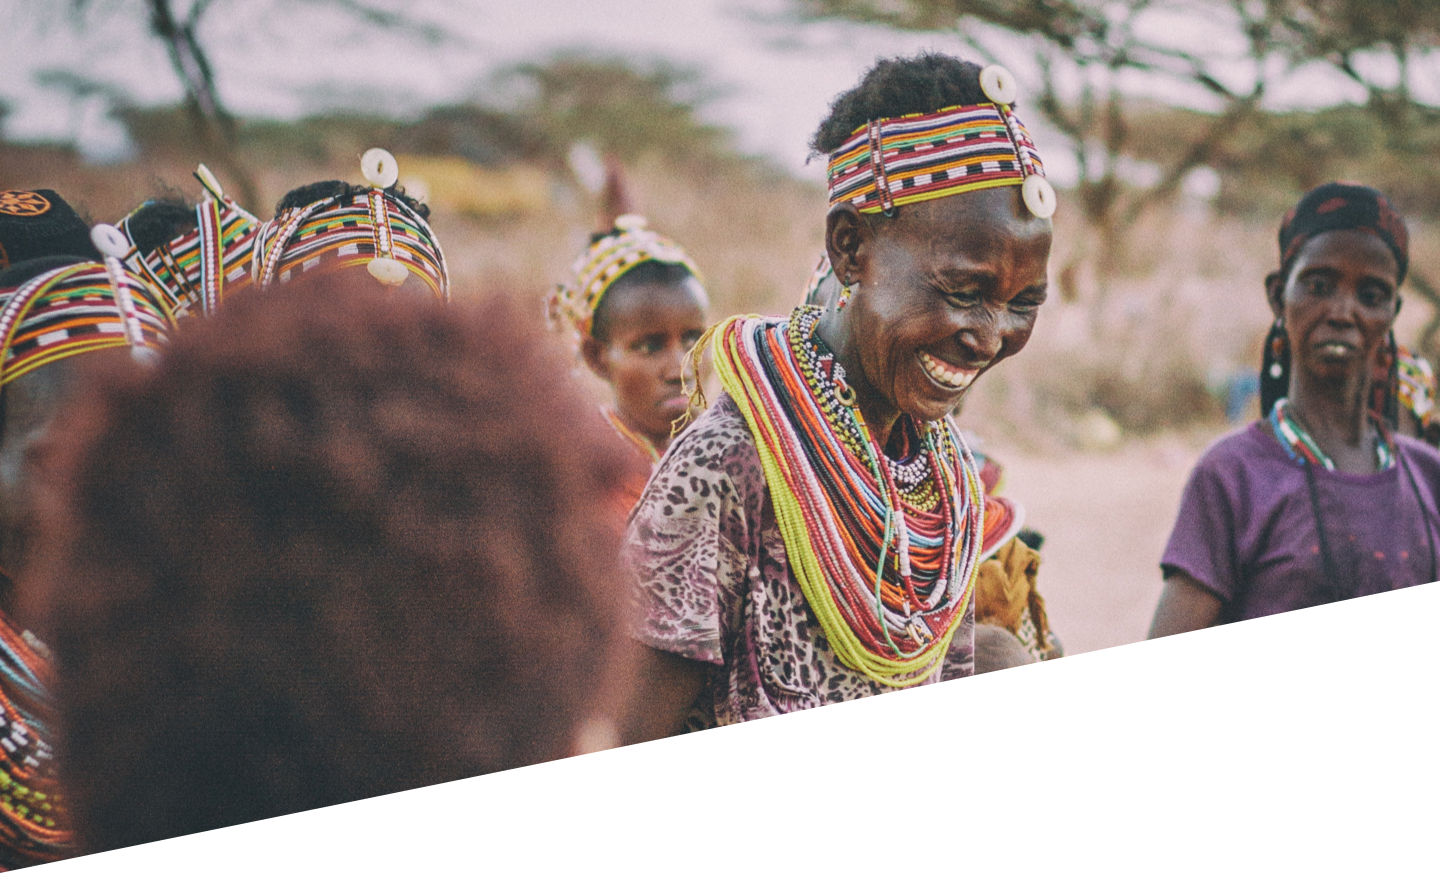
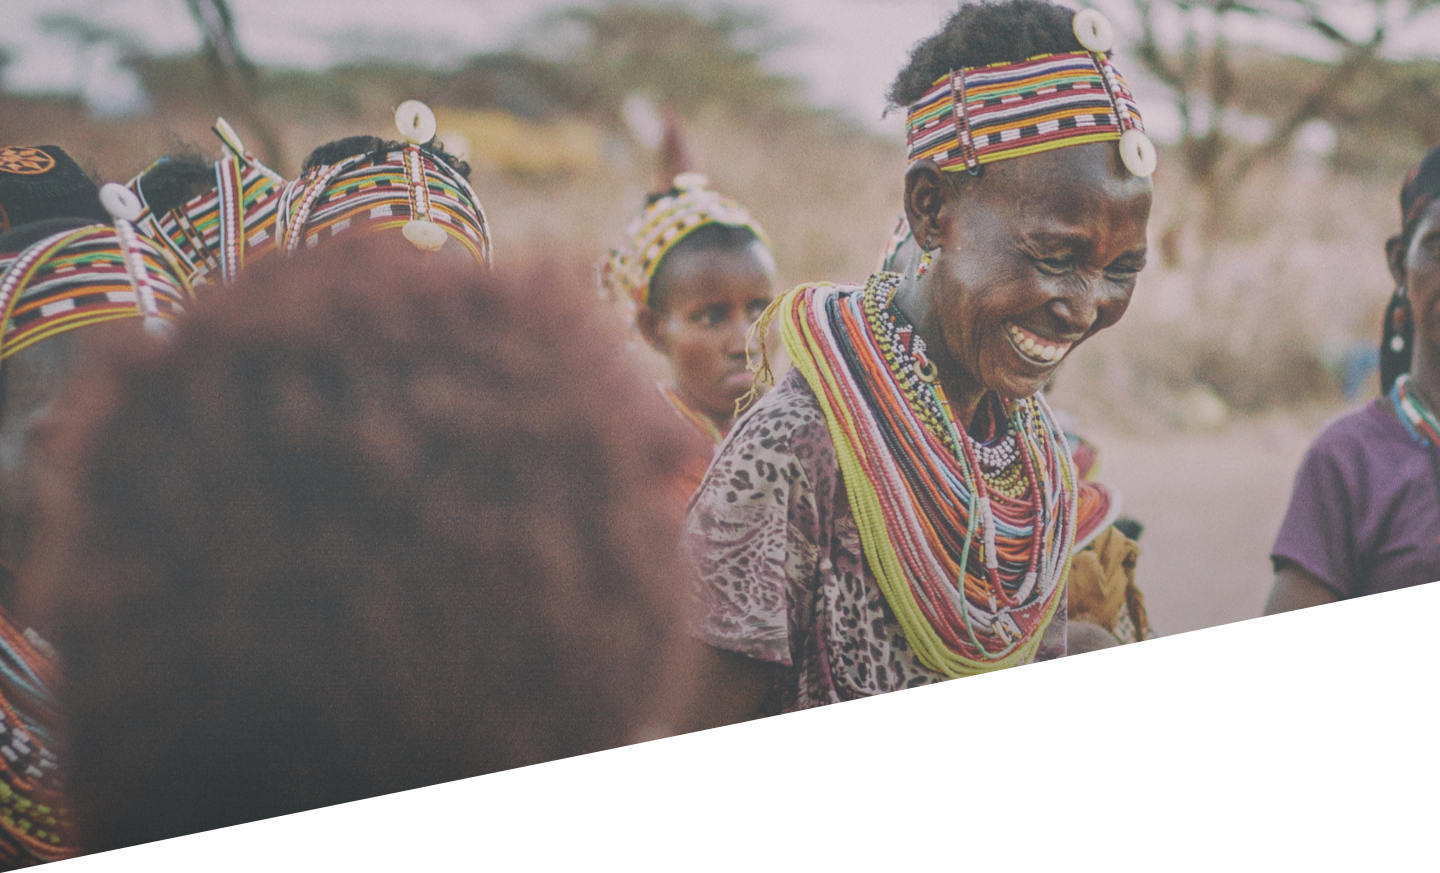
Added video grids

diff --git a/public/assets/css/app.css b/public/assets/css/app.css
@@ -1,1 +1,1 @@
-.archive-page{width:100%;position:relative}.archive-background{position:absolute;top:-150px;left:0;right:0;}.archive-background img{width:100%}.archive-video-container{display:block;margin:0 auto;padding:16px;width:800px;height:1000px;position:relative;background-color:#fff;box-shadow:0 4px 4px rgba(0,0,0,0.2)}
+.archive-page{width:100%;position:relative}.archive-background{position:absolute;left:0;right:0;}.archive-background .archive-bg-container{position:relative}.archive-background img{position:absolute;width:100%;top:-100px;left:0;right:0}.archive-background .archive-title{position:absolute;margin:0;top:110px;width:95%;right:5%;color:#fff;font-size:42px;font-weight:700;text-shadow:0 2px 4px rgba(82,70,70,0.5);text-align:right}.archive-background .archive-subtitle{position:absolute;width:46%;top:175px;right:5%;color:#fff;font-size:20px;font-weight:300;text-shadow:0 2px 4px rgba(82,70,70,0.5);text-align:right}.archive-video-container{position:relative;top:280px;flex-direction:row;flex-wrap:wrap;justify-content:space-between;align-items:flex-start;align-content:flex-start;display:flex;margin:0 auto 80px auto;padding:100px;width:90%;height:auto;background-color:#fff;box-shadow:0 4px 4px rgba(0,0,0,0.2)}.archive-video{flex-basis:200px;flex-grow:1;height:200px;margin:16px;box-shadow:0 2px 4px rgba(0,0,0,0.2);border-radius:4px}

diff --git a/app/assets/javascripts/components/archive/landing.es6.jsx b/app/assets/javascripts/components/archive/landing.es6.jsx
@@ -4,6 +4,11 @@ class ArchiveLanding extends React.Component {
   }
 
   render() {
+    let videos = [];
+    for (let i = 0; i < 20; i++) {
+      videos.push(<div className='archive-video' />);
+    }
+
     return (
       <div className='archive-page'>
         <div className='archive-background'>
@@ -17,6 +22,7 @@ class ArchiveLanding extends React.Component {
         </div>
 
         <div className="archive-video-container">
+          {videos}
         </div>
       </div>
     );
